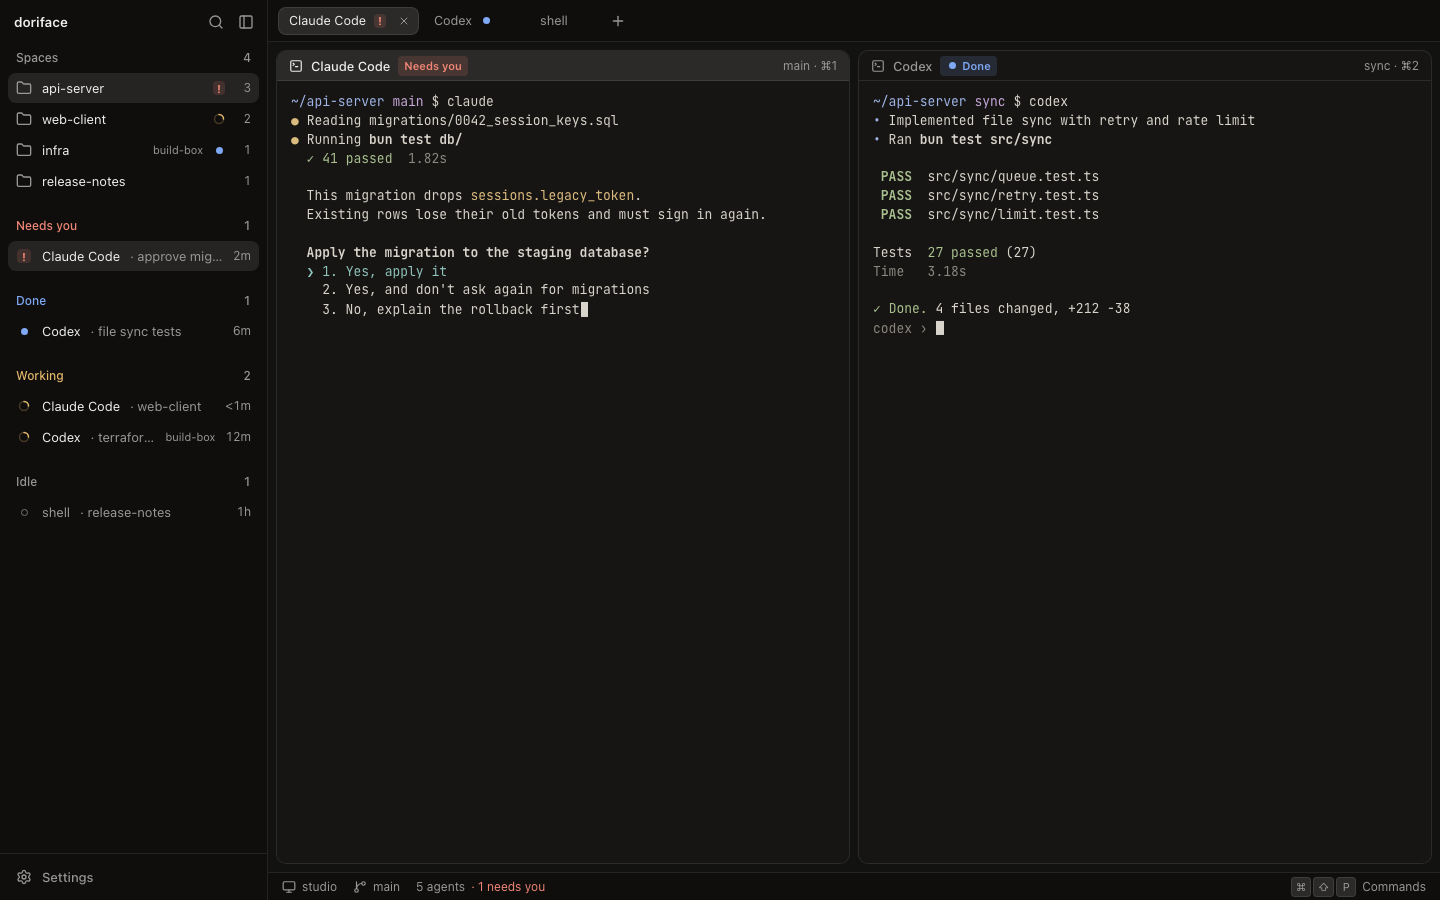
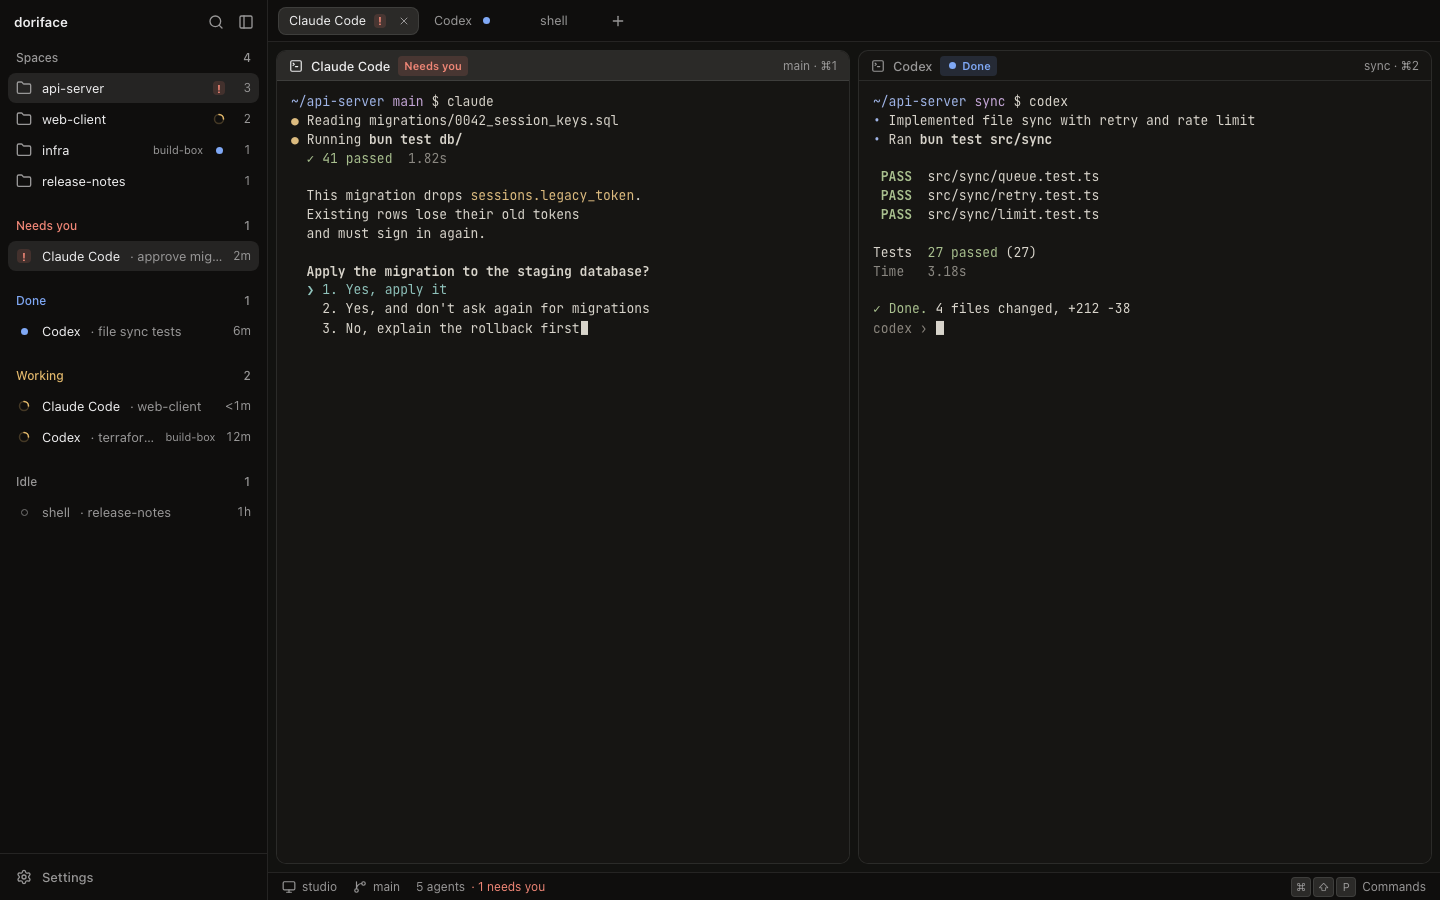
fix(ui): keep the sample migration warning within a phone-width terminal

Changed region(s): [[0.2188, 0.2489, 0.4688, 0.3733], [0.4062, 0.2178, 0.5312, 0.2489]]

diff --git a/packages/ui/showcase/data.ts b/packages/ui/showcase/data.ts
@@ -38,7 +38,8 @@ export const CLAUDE_LINES: readonly TerminalLine[] = [
   ],
   [],
   [{ text: "  This migration drops ", dim: false }, { text: "sessions.legacy_token", color: 3 }, { text: "." }],
-  [{ text: "  Existing rows lose their old tokens and must sign in again." }],
+  [{ text: "  Existing rows lose their old tokens" }],
+  [{ text: "  and must sign in again." }],
   [],
   [{ text: "  Apply the migration to the staging database?", bold: true }],
   [
